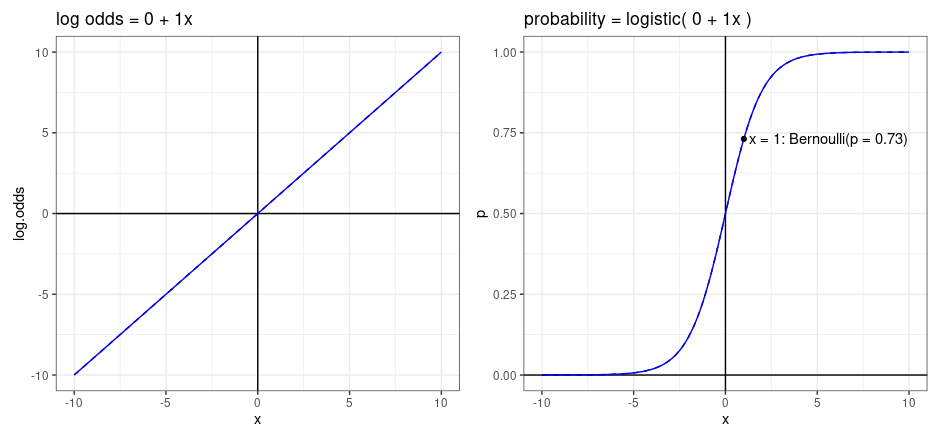
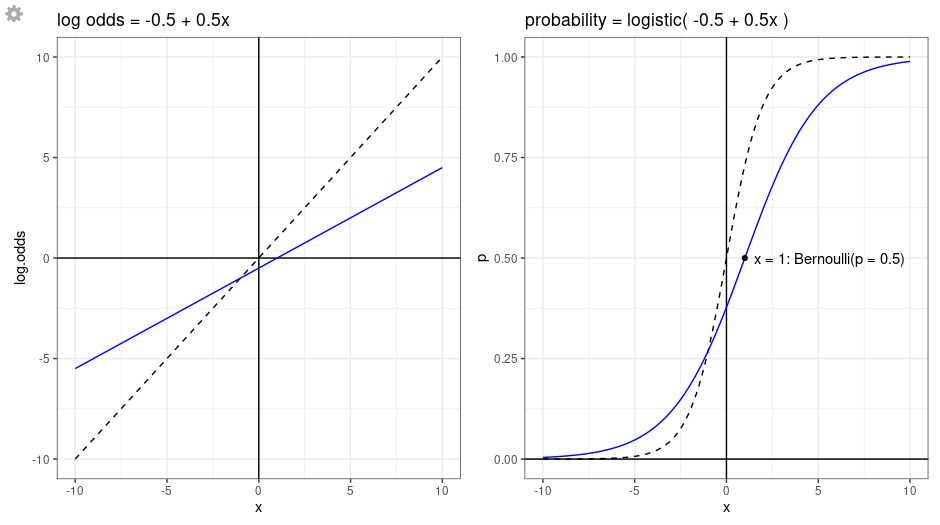
Update instructions, add better graph.

diff --git a/README.md b/README.md
@@ -1,4 +1,6 @@
 # explore-logistic-regression
-A simple R utility to explore the connection between the logistic &amp; linear components of a 1-variable logistic regression.
+A simple R utility to explore the connection between the logistic &amp; linear components of a 1-variable logistic regression. You can choose the slope and intercept of
+the linear component and this will plot the linear function and the associted
+logistic function, along with reference lines for comparison.
 
 ![Sample output graphs](./graphs.png "Sample output")
